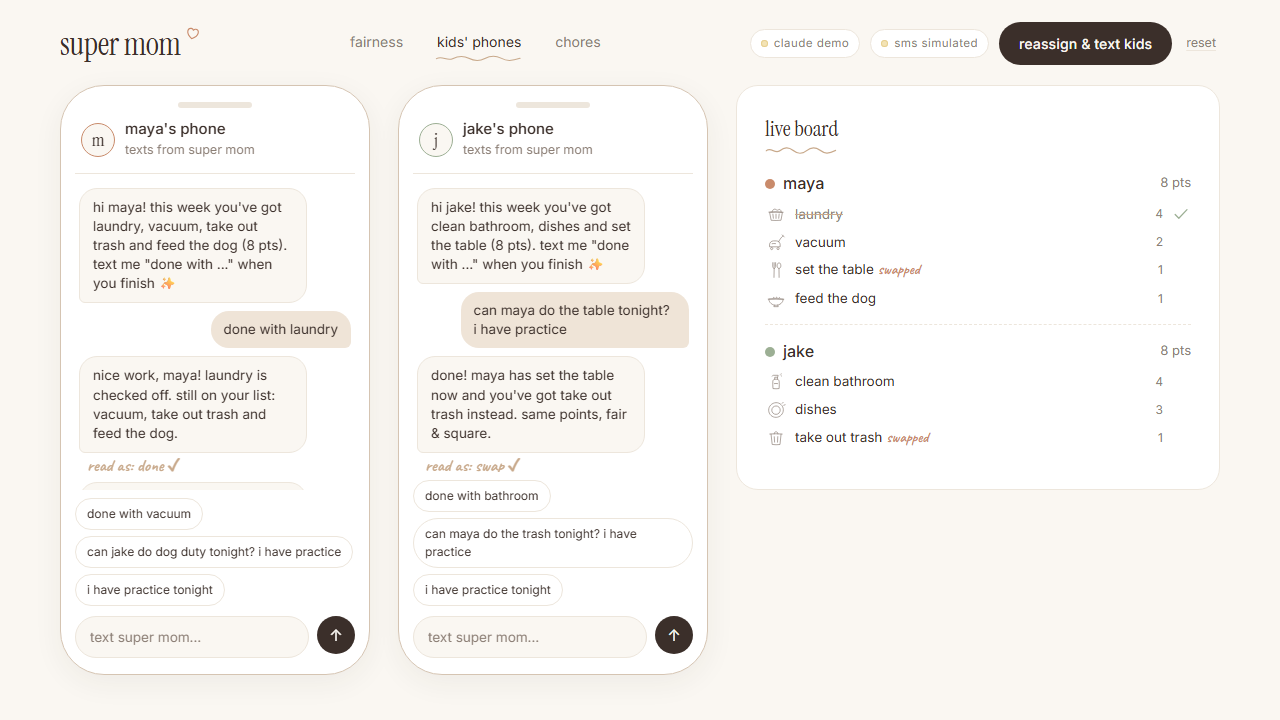
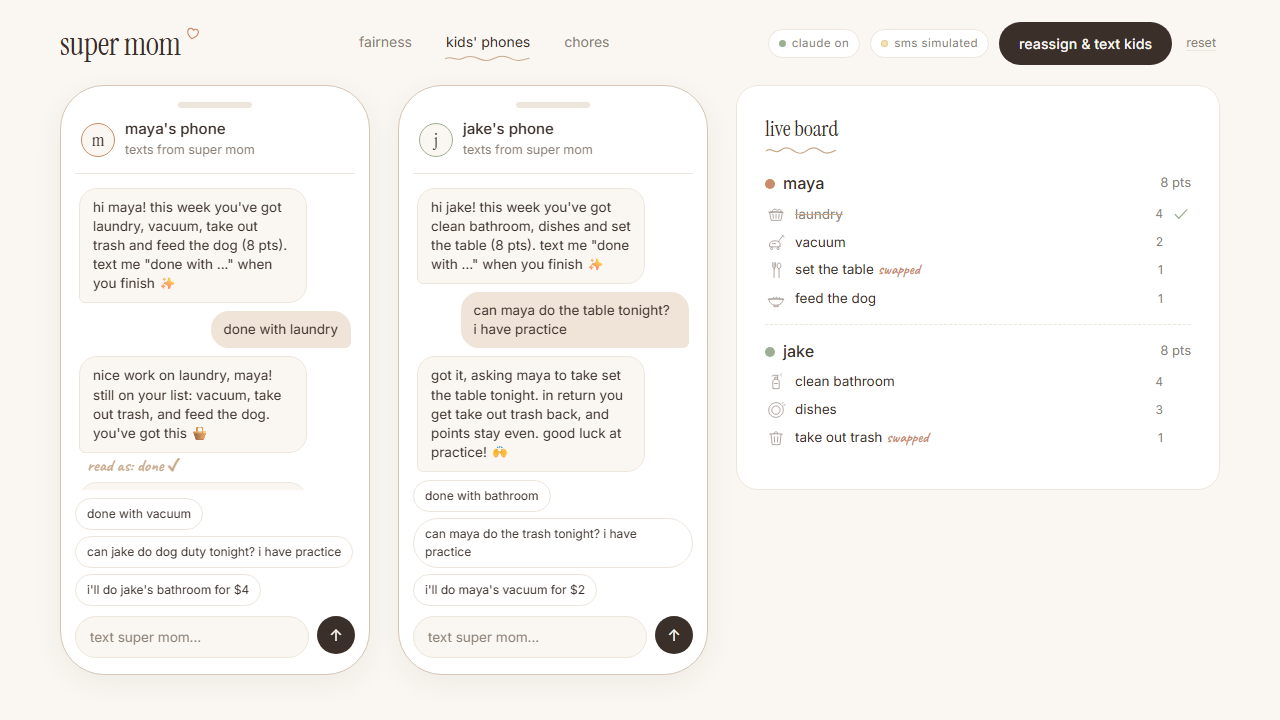
docs: screenshots with claude on; max three quick-reply chips

diff --git a/public/styles.css b/public/styles.css
@@ -139,7 +139,7 @@ main { max-width: 1240px; margin: 0 auto; padding: 6px 40px 40px; }
 .phone-head { display: flex; align-items: center; gap: 10px; padding: 0 6px 12px; border-bottom: 1px solid var(--line); }
 .avatar { width: 34px; height: 34px; border-radius: 50%; display: grid; place-items: center; font-family: "Instrument Serif", serif; font-size: 18px; background: var(--milk); border: 1.5px solid var(--kid); }
 .phone-head b { font-weight: 500; text-transform: lowercase; display: block; line-height: 1.2; }
-.chat { flex: 1; overflow-y: auto; display: flex; flex-direction: column; gap: 8px; padding: 14px 4px 10px; scroll-behavior: smooth; }
+.chat { flex: 1; overflow-y: auto; display: flex; flex-direction: column; gap: 8px; padding: 14px 4px 10px; }
 .chat-empty { margin: auto; text-align: center; color: var(--muted); font-size: 12.5px; max-width: 200px; }
 .bubble { max-width: 84%; padding: 9px 13px; border-radius: 18px; font-size: 13.5px; line-height: 1.42; overflow-wrap: anywhere; }
 .bubble.app { align-self: flex-start; background: var(--milk); border: 1px solid var(--line); border-bottom-left-radius: 6px; }

diff --git a/public/app.js b/public/app.js
@@ -237,7 +237,7 @@
     // a money offer: do the sibling's biggest open chore, priced at its points
     const sibLeft = sib ? S.chores.filter((c) => c.kidId === sib.id && !c.done) : [];
     if (sib && sibLeft[0]) chips.push(`i'll do ${lc(sib.name)}'s ${short(sibLeft[0].name)} for $${sibLeft[0].points}`);
-    chips.push(left.length ? "i have practice tonight" : "what's left?");
+    if (chips.length < 3) chips.push(left.length ? "i have practice tonight" : "what's left?");
     return chips;
   }
 
